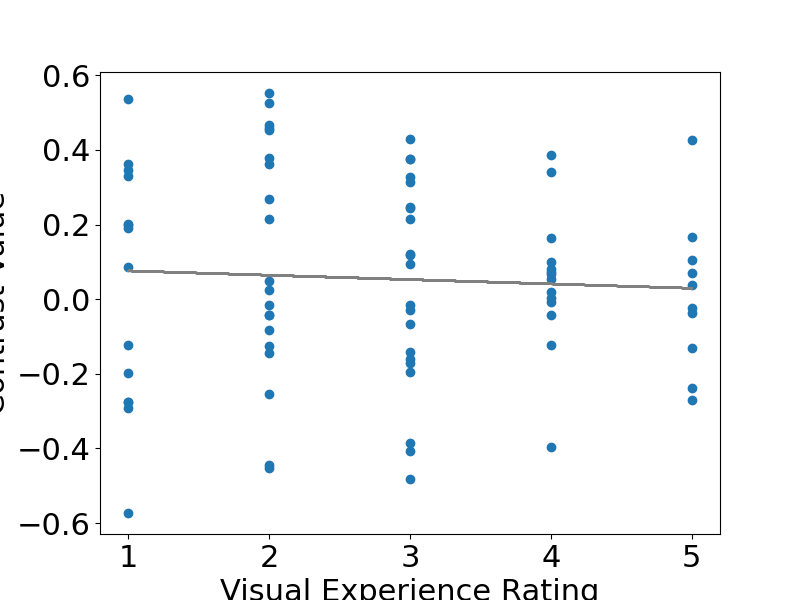
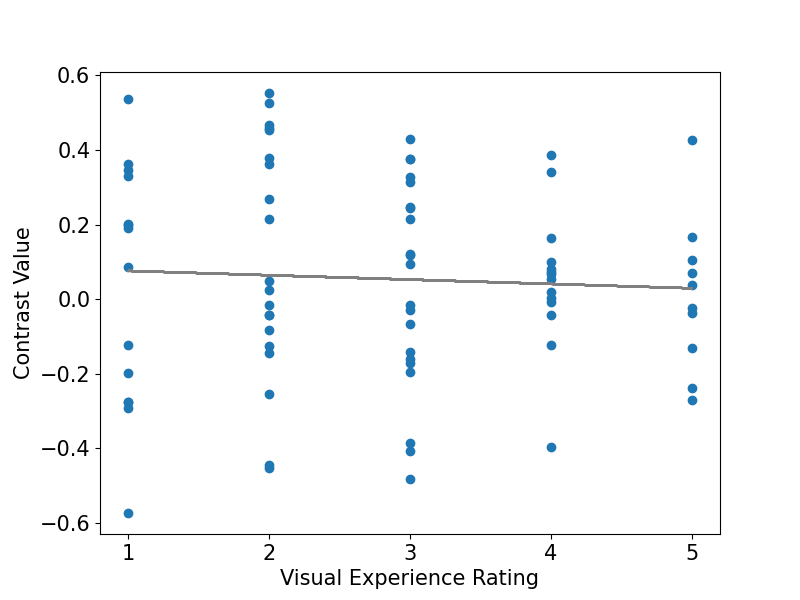
foundcog-context-fyp

diff --git a/animacy2.py b/animacy2.py
@@ -1,0 +1,117 @@
+import pickle
+import numpy as np
+from os import path
+import pandas as pd
+import re
+
+rdmpth='/foundcog/foundcog_results/pictures/rdms_pairwise'
+toremove = ['IRN1','ICN2','IRC3','IRC9','IRC13']
+with open(path.join(rdmpth, f'rdms_within-subjects.pickle'),'rb') as f:
+    within_dat = pickle.load(f)
+    isblank = np.isnan(within_dat['all_rdm_within_across_reps']['lh_evc'][0,0,:])
+    for sub in toremove:
+        idx = [i for i,x in enumerate(within_dat['sub_list_used']) if sub + '_' in x]
+        isblank[idx[0]] = True
+    within_dat['sub_list_used'] = [x for i,x in enumerate(within_dat['sub_list_used']) if not isblank[i]]
+    for region in  within_dat['all_rdm_within_across_reps']:
+        within_dat['all_rdm_within_across_reps'][region] =  within_dat['all_rdm_within_across_reps'][region][:,:,~ isblank]
+    to_analyse = [1,2,4,5,6,7,8,9,10,11]
+    for region in within_dat['all_rdm_within_across_reps']:
+        within_dat['all_rdm_within_across_reps'][region] = within_dat['all_rdm_within_across_reps'][region][to_analyse, :,:][:,to_analyse,:]
+    within_dat['conditions_split'] = [ within_dat['conditions_split'][x] for x in to_analyse]
+    ind = np.argsort(within_dat['sub_list_used'])
+    within_dat['sub_list_used'] = [within_dat['sub_list_used'][i] for i in ind]
+    for region in  within_dat['all_rdm_within_across_reps']:
+        within_dat['all_rdm_within_across_reps'][region] =  within_dat['all_rdm_within_across_reps'][region][:,:,ind]
+    sub_list_tidy = [x.split('/')[-2].split('_')[0] for x in within_dat['sub_list_used']]
+
+
+# Without crabs and squirrels
+condnames_by_task = {
+    'pictures': ['crab_rep1', 'crab_rep2', 'seabird_rep1', 'seabird_rep2',  'rubberduck_rep1', 'rubberduck_rep2', 'shoppingcart_rep1', 'shoppingcart_rep2', 'towel_rep1', 'towel_rep2', 'food_rep1', 'food_rep2', 'dishware_rep1', 'dishware_rep2', 'fence_rep1', 'fence_rep2',   'shelves_rep1', 'shelves_rep2',   'tree_rep1', 'tree_rep2']
+    }
+
+# Animate or not
+anim = {'seabird':1, 'squirrel':1, 'crab':1, 'rubberduck':0, 'shoppingcart':0, 'towel':0, 'food':0, 'dishware':0,'fence':0, 'shelves':0,'tree':0}
+
+
+for task in ['pictures']:
+    ncond = len(condnames_by_task[task])
+
+ncond_split = ncond//2 # make ncond_split = 10 because N_cond is 20 because 20 condnames by task (10 categories 2 reps)
+
+conditions = condnames_by_task[task]
+conditions_split = [re.sub(r'_rep[0-9]', '', x) for x in conditions[::2]] # get rid of rep1 etc
+
+mvpacons = {}
+
+id_con = np.eye(ncond_split)
+id_con[id_con==1] /= -ncond_split    # ncond_split leading diagonal elements
+id_con[id_con==0] = 1/(ncond_split*(ncond_split-1))
+mvpacons['id'] = id_con
+
+# Animacy rdm
+animvalue=np.array([anim[cond.split('_')[0]] for cond in conditions_split]) # get list of animacy values for each of our items by looking up in dict
+
+# Make animacy RDM
+rdm_anim = 2*(animvalue[:,np.newaxis] == animvalue[np.newaxis,:]).astype(np.float64)-1    # just same (1) or different (0)
+rdm_anim[np.eye(ncond_split)==1] = 0 # blank out leading diagonal
+rdm_anim[rdm_anim==1] = -1/np.sum(rdm_anim==1)     # divide 1's by number of them
+rdm_anim[rdm_anim==-1] = 1/np.sum(rdm_anim==-1)      # same for 0's
+mvpacons['anim'] = rdm_anim
+
+animcon_per_subj = np.sum(np.sum(rdm_anim[:,:,np.newaxis]*within_dat['all_rdm_within_across_reps']['both_vvc'],axis=1),axis=0)
+# Now have one animacy contrast value for each subject - positive and bigger than 0 = more within than between
+
+#Export animacy contrast values to a neat df and csv
+dfA = pd.DataFrame(columns=['value','subject'])
+dfA['value']=animcon_per_subj
+dfA['subject']=sub_list_tidy
+dfA.to_csv(r'AnimacyContrast.csv')
+
+print(dfA)
+
+import matplotlib.pyplot as plt
+plt.hist(dfA['value'], bins=20)
+plt.xlabel('Animacy Contrast Values')
+plt.ylabel('Frequency')
+plt.savefig('AnimacyContrastHist.png')
+
+import statistics
+mean = statistics.mean(dfA['value'])
+SD = statistics.stdev(dfA['value'])
+
+#Test for normality
+import scipy
+from scipy import stats
+print(stats.shapiro(dfA['value']))
+#NOT NORMAL - so need to do bootstrapping
+
+#One sample T-test to assess whether contrast values greater than 0 - ie whether leading diagonal greater than off diagonal
+print(stats.ttest_1samp(dfA['value'], 0))
+
+# calculating Cohen's d
+# d = (sample mean - 0)/ sample sd with n-1 dof
+d = mean/SD
+print(d)
+
+
+
+#convert pandas df to array
+array = dfA['value'].to_numpy()
+
+#convert array to sequence
+data = (array,)
+print(np.mean(data))
+
+#calculate 95% bootstrapped confidence interval for mean
+
+from scipy.stats import bootstrap
+
+bootstrap_ci = bootstrap(data, np.mean, confidence_level=0.95,
+                         random_state=1, method='percentile')
+
+#view 95% boostrapped confidence interval
+print(bootstrap_ci.confidence_interval)
+print(100)
+

diff --git a/H3andH4analysis.py b/H3andH4analysis.py
@@ -43,9 +43,7 @@ AvgContrast = []
 
 #Start a for loop so that everything below will be done for each object
 for objind,objname in enumerate(within_dat['conditions_split']):
-#question - why is there objind AND objname - why not just one
 
-#Question - I did this line 
 
     print(objname)
 
@@ -60,7 +58,7 @@ for objind,objname in enumerate(within_dat['conditions_split']):
     df_contrast[objname] = pd.DataFrame(columns=['objvalue','subject'])
     df_contrast[objname]['objvalue']=objcon_per_subj #puts the contrast values for each subject in the "objvalue" column
     df_contrast[objname]['subject']=sub_list_tidy #puts the subject ID in the "subject" column
-    df_contrast[objname].to_csv(f'contrast_{objname}.csv') #exports to csv ----- don't know if I actually need to do this because the dataframe is in this script anyway
+    df_contrast[objname].to_csv(f'contrast_{objname}.csv') #exports to csv
 
     #Now start the analysis
 
@@ -69,10 +67,22 @@ for objind,objname in enumerate(within_dat['conditions_split']):
     print(stats.shapiro(df_contrast[objname]['objvalue']))
     print(stats.shapiro(df3[objname]))
 
+    #Context/VE ratings hists for each category
+    import matplotlib.pyplot as plt
+    plt.figure(objind) #this important to ensure separate from future plots
+    df3[objname].plot(kind='hist')
+    plt.title('Histogram of Visual Experience')
+    plt.xlabel('Visual Experience')
+    plt.ylabel('Frequency')
+    plt.savefig(f'Context_{objname}.png')
+
+    import statistics
+    print(statistics.stdev(df3[objname]))
+
     #Scatterplot showing correlation between contrast values and context ratings
     from matplotlib import pyplot as plt
-    plt.figure(objind, figsize=(8,6))
-    font = {'size' : 22}
+    plt.figure((objind+10), figsize=(8,6))
+    font = {'size' : 15}
     plt.rc('font', **font)
     plt.scatter(df3[objname], df_contrast[objname]['objvalue'])
     m, b = np.polyfit(df3[objname], df_contrast[objname]['objvalue'], 1)
@@ -97,8 +107,8 @@ shopping_contrast = pd.concat((df_contrast['shoppingcart']['objvalue'], df_contr
 print('shopping')
 print(stats.shapiro(shopping_ratings))
 print(stats.shapiro(shopping_contrast))
-plt.figure(11, figsize=(10,10))
-font = {'size' : 22}
+plt.figure(40, figsize=(8,6))
+font = {'size' : 15}
 plt.rc('font', **font)
 plt.scatter(shopping_ratings, shopping_contrast)
 m, b = np.polyfit(shopping_ratings, shopping_contrast, 1)
@@ -110,6 +120,17 @@ plt.savefig(f'ContextContrast_ShoppingCluster.png')
 res2 = stats.spearmanr(shopping_ratings, shopping_contrast)
 print(res2)
 
+print(statistics.stdev(shopping_ratings))
+
+
+plt.figure(18) #this important to ensure separate from future plots
+shopping_ratings.plot(kind='hist')
+plt.title('Histogram of Visual Experience')
+plt.xlabel('Visual Experience')
+plt.ylabel('Frequency')
+plt.savefig('shopping_ratings_hist.png')
+
+
 # H4 Print the average lists (NB they are in the same order as in conditions_split)
 print('H4')
 print(AvgRatings)
@@ -118,7 +139,8 @@ print(AvgContrast)
 print(stats.shapiro(AvgRatings))
 print(stats.shapiro(AvgContrast))
 
-plt.figure(12,figsize=(8,6))
+plt.figure(30,figsize=(8,6))
+font = {'size' : 15}
 plt.scatter(AvgRatings, AvgContrast)
 m, b = np.polyfit(AvgRatings, AvgContrast, 1)
 plt.plot(AvgRatings, m*np.array(AvgRatings)+b, color='grey')

diff --git a/contrast.explained.py b/contrast.explained.py
@@ -3,13 +3,13 @@ import numpy as np
 from os import path
 import pandas as pd
 
-# Across subject - I think just labels the across subjects RDMs as rdmpth
+# Across subject - just labels the across subjects RDMs as rdmpth
 rdmpth='/foundcog/foundcog_results/pictures/rdms_pairwise'
 
 #Subjects with no rating data, remove from fMRI
 toremove = ['IRN1','ICN2','IRC3','IRC9','IRC13']
 
-# Within subject data - Not actually sure what this bit does
+# Load within subject data
 with open(path.join(rdmpth, f'rdms_within-subjects.pickle'),'rb') as f:
     within_dat = pickle.load(f)
  
@@ -61,6 +61,9 @@ with open(path.join(rdmpth, f'rdms_within-subjects.pickle'),'rb') as f:
     # Print the RDM values for subject 3:
     print(within_dat['all_rdm_within_across_reps']['both_vvc'][:,:,2])
     # Note - closer to 0 is more similar
+
+    df3 = pd.DataFrame(within_dat['all_rdm_within_across_reps']['both_vvc'][:,:,2])
+    df3.to_csv(r'Subject3RDM.csv')
     
     # .shape[0] gets numbers of rows / shape[1] gets number of columns
     ncond = within_dat['all_rdm_within_across_reps']['both_vvc'].shape[0] # Label ncond as number of rows in the matrix - ie 12

diff --git a/H2analysis.py b/H2analysis.py
@@ -17,7 +17,9 @@ print(stats.shapiro(df2['Average']))
 
 #Scatterplot comparing the two variables
 import numpy as np
-plt.figure(2)
+plt.figure(2, figsize =(8,6))
+font = {'size' : 15}
+plt.rc('font', **font)
 plt.scatter(df2['Average'], df1['value'])
 m, b = np.polyfit(df2['Average'], df1['value'], 1)
 plt.plot(df2['Average'], m*(df2['Average'])+b, color='grey')
@@ -31,3 +33,4 @@ res = stats.pearsonr(df2['Average'], df1['value'])
 print(res)
 print(res.confidence_interval(confidence_level=0.95))
 print(100)
+

diff --git a/H1analysis.py b/H1analysis.py
@@ -15,6 +15,7 @@ plt.ylabel('Frequency')
 plt.savefig('Contrast1Hist.png')
 
 #Test for normality
+import scipy
 from scipy import stats
 print(stats.shapiro(df['value']))
 
@@ -25,3 +26,5 @@ print(stats.ttest_1samp(df['value'], 0))
 # d = (sample mean - 0)/ sample sd with n-1 dof
 d = mean/SD
 print(d)
+
+print(scipy.__version__)

diff --git a/Versions.py b/Versions.py
@@ -1,0 +1,5 @@
+import sys
+print(sys.version)
+
+import scipy
+print(scipy.__version__)
